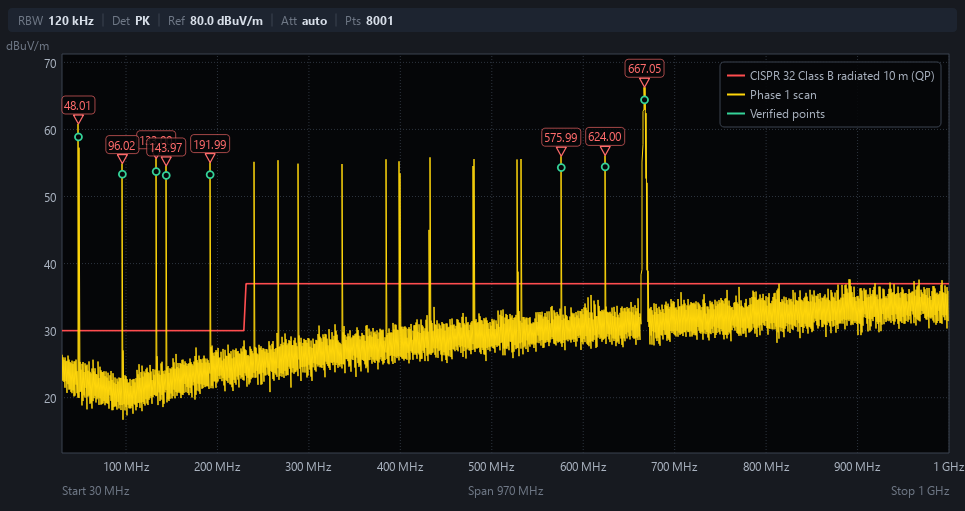
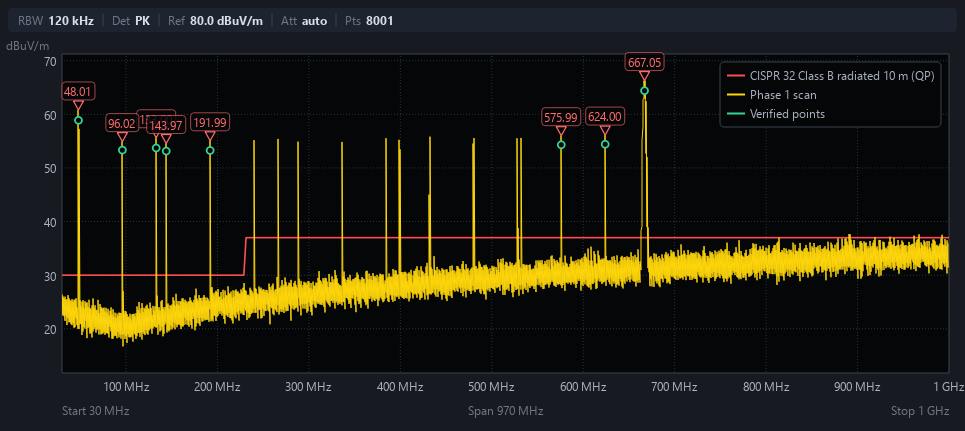
Draw campaign plots in the theme's colours
On the integration branch the plot colours a series by its role, and the
campaign plot, written against main, set none: its trace, limit and
verified points kept the fixed colours and missed the settings bar. They
now carry their roles and the settings the test was measured with, and the
report image is drawn light like the session report's.

The README images are regenerated with all three features together,
including the test plan in light and dark.

diff --git a/src/ui/plot/CampaignPlot.cpp b/src/ui/plot/CampaignPlot.cpp
@@ -27,8 +27,8 @@ void showTest(IPlotBackend& plot, const CampaignTest& test)
         series.id = QStringLiteral("limit:%1").arg(qs(limit.name));
         series.label = qs(limit.name);
         series.colour = limitColour();
-        series.style = PlotStyle::Dashed;
-        series.width = 1.5;
+        series.role = PlotRole::Limit;
+        series.width = 1.6;
         series.points = limitPoints(limit, config.span);
         plot.setSeries(series);
     }
@@ -53,8 +53,12 @@ void showTest(IPlotBackend& plot, const CampaignTest& test)
         series.id = QStringLiteral("trace:live");
         series.label = trace.label.empty() ? QObject::tr("EUT") : qs(trace.label);
         series.colour = traceColour();
+        series.role = PlotRole::Trace;
         series.points = tracePoints(trace);
         plot.setSeries(series);
+        plot.setSettingsSummary(settingsSummary(trace.params, trace.unit));
+    } else {
+        plot.setSettingsSummary(settingsSummary(config.phase1SweepParams(config.span), unit));
     }
 
     if (test.session && !test.session->results.empty()) {
@@ -62,6 +66,7 @@ void showTest(IPlotBackend& plot, const CampaignTest& test)
         verified.id = QStringLiteral("phase2");
         verified.label = QObject::tr("Verified points");
         verified.colour = verifiedPointColour();
+        verified.role = PlotRole::Verified;
         verified.style = PlotStyle::Points;
         verified.width = 7.0;
         for (const auto& point : test.session->results) {
@@ -80,6 +85,8 @@ QImage renderTestSpectrum(const CampaignTest& test, QSize size)
 {
     PainterPlotBackend plot;
     plot.resize(size);
+    // The report is printed on white paper, whatever the screen looked like.
+    plot.setDisplayScheme(Scheme::Light);
     showTest(plot, test);
     return plot.renderToImage(size);
 }

diff --git a/README.md b/README.md
@@ -73,6 +73,11 @@ application asked the instrument is always inspectable.
 
 ![Application log and SCPI console](docs/images/log-console.png)
 
+The test plan works through a campaign the way a test lab does: each test with its
+measured and final verdict, the override reason, comments, equipment, photos and sign-off.
+
+![Test plan of a CISPR 32 class B campaign](docs/images/test-plan.png)
+
 The screenshots are generated by driving the real main window against the simulated analyzer,
 so they cannot drift from the application:
 
